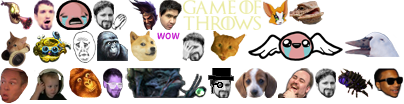
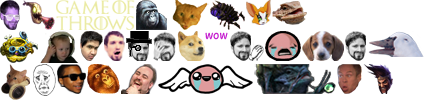
emote was too big, resize it

diff --git a/static/chat/css/style.min.css b/static/chat/css/style.min.css
@@ -1,1 +1,1 @@
-body#chat-embedded{margin:0;padding:0;height:100%;overflow:hidden;min-height:250px;min-width:300px}.chat-output .mCSB_container{margin-right:20px}.chat-output,.chat-lines{-webkit-backface-visibility:hidden;-webkit-perspective:1000;padding:0;margin:0}.chat-lines msg.emote{font-style:italic}.chat-frame{position:relative;width:100%;height:100%}.chat-lines>div{clear:both;word-wrap:break-word;padding:3px 0 3px 5px}.chat-lines>div .continue{user-select:none;color:#444}.chat-lines>div i.continue{user-select:none;color:#222}.chat-lines>div.failed span{text-decoration:line-through;opacity:.5}.chat-lines a.user{font-weight:bold;cursor:pointer}.chat-lines hr{margin:8px 0}.chat-input,.chat-input-wrap,.chat-tools-wrap{height:30px}.chat-input{background:#2e2e2e;background:-moz-linear-gradient(top,rgba(46,46,46,1) 0,rgba(28,28,28,1) 100%);background:-webkit-gradient(linear,left top,left bottom,color-stop(0%,rgba(46,46,46,1)),color-stop(100%,rgba(28,28,28,1)));background:-webkit-linear-gradient(top,rgba(46,46,46,1) 0,rgba(28,28,28,1) 100%);background:-o-linear-gradient(top,rgba(46,46,46,1) 0,rgba(28,28,28,1) 100%);background:-ms-linear-gradient(top,rgba(46,46,46,1) 0,rgba(28,28,28,1) 100%);background:linear-gradient(to bottom,rgba(46,46,46,1) 0,rgba(28,28,28,1) 100%);width:100%;position:absolute;bottom:0;margin:5px 0 0 0}.chat-tools-wrap{position:absolute;right:0;top:0;margin:0;user-select:none;-moz-user-select:none;-webkit-user-select:none}.chat-input-wrap{margin:0;margin-right:90px;border-radius:0}.chat-input-control{padding:3px 0 0 5px;height:25px;margin:1px;border-radius:3px}.chat-input-control .input{background:0;resize:none;margin:0;padding:0;width:100%;border:0;border-radius:0;box-shadow:none;box-sizing:border-box}.chat-input-control .input:focus{box-shadow:none}.chat-tools-wrap>div{height:30px;overflow:hidden}.chat-tools-wrap .iconbtn{cursor:pointer;width:30px;height:30px;line-height:30px;float:left;display:block;text-align:center}.chat-tools-wrap .iconbtn:hover{background:rgba(255,255,255,0.15)}.chat-tools-wrap .iconbtn:hover i{opacity:.9}.chat-tools-wrap .iconbtn.active{background:rgba(255,255,255,0.25)}.chat-tools-wrap .iconbtn.active i{opacity:1}.chat .chat-lines i[class^="icon-"]{width:16px;line-height:16px;height:16px;margin:0;opacity:1}.chat-input-control input,.chat-lines{font-family:Helvetica,"Trebuchet MS",Verdana,sans-serif;font-size:13px;line-height:20px}.chat-lines>div .p-whisper{font-weight:bold}.chat-lines>div time{font-size:11px}.chat-lines a.externallink{color:#02c2ff}.chat-lines a.externallink:visited{color:#08c}.chat-lines a.externallink:hover,.chat-lines a.externallink:focus{color:#004d74}.chat-lines a.nsfw-link{border-bottom:1px dashed red}.chat .chat-lines time,.chat .user-msg i{display:none!important}.chat.chat-time .chat-lines time,.chat.chat-icons .user-msg i,.chat-lines i.icon-subscriber,.chat-lines i.icon-subscribert2,.chat-lines i.icon-administrator{display:inline-block!important}.chat-theme-dark{background:#080808;border-radius:4px;box-shadow:inset 0 0 5px 5px rgba(0,0,0,0.25)}.chat-theme-dark .chat-input-wrap{border:0}.chat-theme-dark .chat-lines chat{color:#ddd}.chat-theme-dark .chat-lines>div time{color:#414141}.chat-theme-dark .chat-lines>div .p-whisper{color:#900}.chat-theme-dark .chat-lines>div.highlight time,.chat-lines>div.highlight .continue{color:#838383}.chat-theme-dark .chat-lines>div.command-msg,.chat-theme-dark .chat-lines>div.error-msg,.chat-theme-dark .chat-lines>div.status-msg,.chat-theme-dark .chat-lines>div.ui-msg,.chat-theme-dark .chat-lines>div.own-msg,.chat-theme-dark .chat-lines>div.highlight{color:#dedede}.chat-theme-dark .chat-lines>div.own-msg{background:linear-gradient(to right,rgba(255,255,255,0.05) 0,rgba(255,255,255,0.05) 90%,rgba(255,255,255,0) 100%)}.chat-theme-dark .chat-lines>div.highlight{background:linear-gradient(to right,rgba(0,150,255,0.5) 0,rgba(0,150,255,0) 100%)}.chat-theme-dark .chat-lines>div.command-msg,.chat-theme-dark .chat-lines>div.own-msg,.chat-theme-dark .chat-lines>div.highlight msg{text-shadow:1px 1px 0 rgba(0,0,0,0.5)}.chat-theme-dark .chat-input-control{background:#090909;border:0}.chat-theme-dark .chat-input-control input{color:#9e9e9e;background:#090909;text-shadow:none}.chat-theme-dark input:input-placeholder{color:#222}.chat-theme-dark input:-moz-placeholder{color:#222}.chat-theme-dark input:-ms-input-placeholder{color:#222}.chat-theme-dark input::-webkit-input-placeholder{color:#222}.user-tools{width:100%;top:-5px;left:0}.user-tools>div{border-radius:4px;margin:5px 20px 5px 5px}.user-tools-wrap{margin-left:-5px}.user-tools-wrap>a{margin:0 5px}.chat-menu,.user-tools{opacity:0;transition:top .25s ease-out,bottom .25s ease-out,opacity .1s ease-in;position:absolute;font-size:12px}.chat-menu.active,.user-tools.active{opacity:1}.chat-menu{right:20px;bottom:35px;width:240px}.chat-menu.active{bottom:40px}.user-tools.active{top:0}.chat-menu h5,.user-tools h5{text-shadow:-1px -1px 0 rgba(0,0,0,0.25);user-select:none;-moz-user-select:none;-webkit-user-select:none;background:#4f4f4f;background:linear-gradient(to bottom,rgba(79,79,79,1) 0,rgba(46,46,46,1) 100%);border-bottom:1px solid #121212;margin:0;line-height:20px;display:block;padding:5px 10px;border-radius:4px 4px 0 0}.chat-menu .toolbar{width:100%;position:absolute;top:-31px;left:0}.chat-menu h5 .close,.user-tools h5 .close{margin-top:3px}.chat-menu li,.chat-menu label{font-size:12px}.chat-menu label:hover{color:white}.chat-menu .list-wrap,.chat-menu .list-wrap .scrollable{max-height:330px}.chat-menu .list-wrap,.user-tools>div{box-shadow:0 2px 6px rgba(0,0,0,0.9);border-radius:0 0 4px 4px;background:rgba(25,25,25,0.9);padding:0}.chat-menu .list-wrap{margin-top:auto}.chat-menu .list-wrap .scrollable{overflow:hidden}.chat-menu ul,.user-tools .tools{padding:0 10px;margin:10px 0}.chat-menu ul>li:first-child h5{margin-top:0}.chat-menu ul li{text-overflow:ellipsis;overflow:hidden}#chat-user-list h6:first-child{margin-top:10px}#chat-user-list h6{font-weight:bold;margin:0 0 5px 5px}#chat-user-list hr{margin:5px 0}#chat-user-list ul{margin:0}#chat-user-list .user{cursor:pointer}.chat.focus-user .chat-lines>div.user-msg{opacity:.3}.chat.focus-user .chat-lines>div.user-msg.focused,.chat.focus-user .chat-lines>div.user-msg.highlight{opacity:1}.user-tools a#unignoreuser,.user-tools.user-ignored a#ignoreuser{display:none}.user-tools.user-ignored a#unignoreuser{display:inline-block}.chat-login-msg{padding:0 0 0 5px;line-height:25px;color:rgba(255,255,255,0.5);text-shadow:-1px -1px 0 rgba(0,0,0,0.25)}.chat-login-msg:hover{color:rgba(255,255,255,1);text-shadow:0 0 3px rgba(255,255,255,0.25)}.chat-emote{display:inline-block;position:relative;top:10px;margin:0 2px}.chat-emote.chat-emote-Dravewin{width:30px;height:30px;margin-top:-30px;background:url('../img/emoticons.png') no-repeat -128px 0}.chat-emote.chat-emote-INFESTINY{width:35px;height:30px;margin-top:-30px;background:url('../img/emoticons.png') no-repeat -338px -68px}.chat-emote.chat-emote-FIDGETLOL{width:25px;height:25px;margin-top:-25px;background:url('../img/emoticons.png') no-repeat -263px 0}.chat-emote.chat-emote-Hhhehhehe{width:35px;height:25px;margin-top:-25px;background:url('../img/emoticons.png') no-repeat -289px 0}.chat-emote.chat-emote-GameOfThrows{width:79px;height:30px;margin-top:-30px;background:url('../img/emoticons.png') no-repeat -183px 0}.chat-emote.chat-emote-WORTH{width:21px;height:30px;margin-top:-30px;background:url('../img/emoticons.png') no-repeat -103px -68px}.chat-emote.chat-emote-FeedNathan{width:39px;height:32px;margin-top:-32px;background:url('../img/emoticons.png') no-repeat -29px -68px}.chat-emote.chat-emote-Abathur{width:82px;height:30px;margin-top:-30px;background:url('../img/emoticons.png') no-repeat -125px -68px}.chat-emote.chat-emote-LUL{width:36px;height:30px;margin-top:-30px;background:url('../img/emoticons.png') no-repeat -278px -68px}.chat-emote.chat-emote-Heimerdonger{width:39px;height:32px;margin-top:-32px;background:url('../img/emoticons.png') no-repeat -33px -31px}.chat-emote.chat-emote-ASLAN{width:41px;height:30px;margin-top:-30px;background:url('../img/emoticons.png') no-repeat -206px -31px}.chat-emote.chat-emote-DJAslan{width:32px;height:36px;margin-top:-36px;background:url('../img/emoticons.png') no-repeat 0 -31px}.chat-emote.chat-emote-SoSad{width:23px;height:32px;margin-top:-32px;background:url('../img/emoticons.png') no-repeat -73px -31px}.chat-emote.chat-emote-DURRSTINY{width:21px;height:30px;margin-top:-30px;background:url('../img/emoticons.png') no-repeat -34px 0}.chat-emote.chat-emote-SURPRISE{width:33px;height:30px;margin-top:-30px;background:url('../img/emoticons.png') no-repeat 0 0}.chat-emote.chat-emote-NoTears{width:31px;height:30px;margin-top:-30px;background:url('../img/emoticons.png') no-repeat -97px -31px}.chat-emote.chat-emote-OverRustle{width:33px;height:30px;margin-top:-30px;background:url('../img/emoticons.png') no-repeat -69px -68px;animation:rustle 100ms 7;-webkit-animation:rustle 100ms 7}.chat-emote.chat-emote-OverRustle:hover{animation:rustle 100ms infinite;-webkit-animation:rustle 100ms infinite}@keyframes rustle{from{left:0}to{left:2px}}@-webkit-keyframes rustle{from{left:0}to{left:2px}}.chat-emote.chat-emote-DuckerZ{width:56px;height:26px;margin-top:-26px;background:url('../img/emoticons.png') no-repeat -344px -31px}.chat-emote.chat-emote-Kappa{width:22px;height:30px;margin-top:-30px;background:url('../img/emoticons.png') no-repeat -315px -68px}.chat-emote.chat-emote-Klappa{width:34px;height:30px;margin-top:-30px;background:url('../img/emoticons.png') no-repeat -93px 0}.chat-emote.chat-emote-DappaKappa{width:26px;height:30px;margin-top:-30px;background:url('../img/emoticons.png') no-repeat -208px -68px}.chat-emote.chat-emote-BibleThump{width:36px;height:30px;margin-top:-30px;background:url('../img/emoticons.png') no-repeat -56px 0}.chat-emote.chat-emote-AngelThump{width:95px;height:30px;margin-top:-30px;background:url('../img/emoticons.png') no-repeat -248px -31px}.chat-emote.chat-emote-FrankerZ{width:42px;height:30px;margin-top:-30px;background:url('../img/emoticons.png') no-repeat -235px -68px}.chat-emote.chat-emote-BasedGod{width:29px;height:30px;margin-top:-30px;background:url('../img/emoticons.png') no-repeat -374px -68px}.chat-emote.chat-emote-TooSpicy{width:23px;height:30px;margin-top:-30px;background:url('../img/emoticons.png') no-repeat -159px 0}.chat-emote.chat-emote-OhKrappa{width:23px;height:30px;margin-top:-30px;background:url('../img/emoticons.png') no-repeat -182px -31px}.chat-emote.chat-emote-SoDoge{width:52px;height:30px;margin-top:-30px;background:url('../img/emoticons.png') no-repeat -129px -31px}.chat-emote.chat-emote-WhoahDude{width:28px;height:35px;margin-top:-35px;background:url('../img/emoticons.png') no-repeat 0 -68px}.chat .chat-lines i[class^="icon-"]{background-position:bottom left;background-repeat:no-repeat}.chat .chat-lines i[class^="icon-"]:hover{background-position:top left}i.icon-subscriber,i.icon-subscribert2{-webkit-transform:rotate(0deg);-webkit-transition:rotate .2s ease-in-out;-moz-transition:rotate .2s ease-in-out;-o-transition:rotate .2s ease-in-out;transition:rotate .2s ease-in-out}i.icon-subscriber:hover,i.icon-subscribert2:hover{-moz-animation:spin 3s infinite linear;-webkit-animation:spin 3s infinite linear}i.icon-subscriber{background-image:url("../img/bobross.png")}i.icon-subscribert2{background-image:url("../img/bobross2.png")}i.icon-vip{background-image:url("../img/leaf.png")}i.icon-moderator{background-image:url("../img/weather-lightning.png")}i.icon-administrator{background-image:url("../img/microphone.png")}i.icon-bot{background-image:url("../img/robot.png")}i.icon-notable{background-image:url("../img/balloon-white-left.png")}i.icon-error{background-image:url("../img/exclamation-red.png")}i.icon-status{background-image:url("../img/information.png")}i.icon-info{background-image:url("../img/question-white.png")}i.icon-command{background-image:url("../img/exclamation-diamond.png")}.chat-frame a.user{color:#a7a7a7}.chat-frame a.user:hover{color:#fafafa}.chat-frame a.subscriber{color:#488ce7}.chat-frame a.subscriber:hover{color:#6aa7f9}.chat-frame a.moderator{color:#429a2d}.chat-frame a.moderator:hover{color:#75e85a}.chat-frame a.vip{color:#cf31e2}.chat-frame a.vip:hover{color:#e564f4}.chat-frame a.admin{color:#b91010}.chat-frame a.admin:hover{color:#f00}.chat-frame a.bot{color:#4ba235}.chat-frame a.bot:hover{color:#7adb62}
+body#chat-embedded{margin:0;padding:0;height:100%;overflow:hidden;min-height:250px;min-width:300px}.chat-output .mCSB_container{margin-right:20px}.chat-output,.chat-lines{-webkit-backface-visibility:hidden;-webkit-perspective:1000;padding:0;margin:0}.chat-lines msg.emote{font-style:italic}.chat-frame{position:relative;width:100%;height:100%}.chat-lines>div{clear:both;word-wrap:break-word;padding:3px 0 3px 5px}.chat-lines>div .continue{user-select:none;color:#444}.chat-lines>div i.continue{user-select:none;color:#222}.chat-lines>div.failed span{text-decoration:line-through;opacity:.5}.chat-lines a.user{font-weight:bold;cursor:pointer}.chat-lines hr{margin:8px 0}.chat-input,.chat-input-wrap,.chat-tools-wrap{height:30px}.chat-input{background:#2e2e2e;background:-moz-linear-gradient(top,rgba(46,46,46,1) 0,rgba(28,28,28,1) 100%);background:-webkit-gradient(linear,left top,left bottom,color-stop(0%,rgba(46,46,46,1)),color-stop(100%,rgba(28,28,28,1)));background:-webkit-linear-gradient(top,rgba(46,46,46,1) 0,rgba(28,28,28,1) 100%);background:-o-linear-gradient(top,rgba(46,46,46,1) 0,rgba(28,28,28,1) 100%);background:-ms-linear-gradient(top,rgba(46,46,46,1) 0,rgba(28,28,28,1) 100%);background:linear-gradient(to bottom,rgba(46,46,46,1) 0,rgba(28,28,28,1) 100%);width:100%;position:absolute;bottom:0;margin:5px 0 0 0}.chat-tools-wrap{position:absolute;right:0;top:0;margin:0;user-select:none;-moz-user-select:none;-webkit-user-select:none}.chat-input-wrap{margin:0;margin-right:90px;border-radius:0}.chat-input-control{padding:3px 0 0 5px;height:25px;margin:1px;border-radius:3px}.chat-input-control .input{background:0;resize:none;margin:0;padding:0;width:100%;border:0;border-radius:0;box-shadow:none;box-sizing:border-box}.chat-input-control .input:focus{box-shadow:none}.chat-tools-wrap>div{height:30px;overflow:hidden}.chat-tools-wrap .iconbtn{cursor:pointer;width:30px;height:30px;line-height:30px;float:left;display:block;text-align:center}.chat-tools-wrap .iconbtn:hover{background:rgba(255,255,255,0.15)}.chat-tools-wrap .iconbtn:hover i{opacity:.9}.chat-tools-wrap .iconbtn.active{background:rgba(255,255,255,0.25)}.chat-tools-wrap .iconbtn.active i{opacity:1}.chat .chat-lines i[class^="icon-"]{width:16px;line-height:16px;height:16px;margin:0;opacity:1}.chat-input-control input,.chat-lines{font-family:Helvetica,"Trebuchet MS",Verdana,sans-serif;font-size:13px;line-height:20px}.chat-lines>div .p-whisper{font-weight:bold}.chat-lines>div time{font-size:11px}.chat-lines a.externallink{color:#02c2ff}.chat-lines a.externallink:visited{color:#08c}.chat-lines a.externallink:hover,.chat-lines a.externallink:focus{color:#004d74}.chat-lines a.nsfw-link{border-bottom:1px dashed red}.chat .chat-lines time,.chat .user-msg i{display:none!important}.chat.chat-time .chat-lines time,.chat.chat-icons .user-msg i,.chat-lines i.icon-subscriber,.chat-lines i.icon-subscribert2,.chat-lines i.icon-administrator{display:inline-block!important}.chat-theme-dark{background:#080808;border-radius:4px;box-shadow:inset 0 0 5px 5px rgba(0,0,0,0.25)}.chat-theme-dark .chat-input-wrap{border:0}.chat-theme-dark .chat-lines chat{color:#ddd}.chat-theme-dark .chat-lines>div time{color:#414141}.chat-theme-dark .chat-lines>div .p-whisper{color:#900}.chat-theme-dark .chat-lines>div.highlight time,.chat-lines>div.highlight .continue{color:#838383}.chat-theme-dark .chat-lines>div.command-msg,.chat-theme-dark .chat-lines>div.error-msg,.chat-theme-dark .chat-lines>div.status-msg,.chat-theme-dark .chat-lines>div.ui-msg,.chat-theme-dark .chat-lines>div.own-msg,.chat-theme-dark .chat-lines>div.highlight{color:#dedede}.chat-theme-dark .chat-lines>div.own-msg{background:linear-gradient(to right,rgba(255,255,255,0.05) 0,rgba(255,255,255,0.05) 90%,rgba(255,255,255,0) 100%)}.chat-theme-dark .chat-lines>div.highlight{background:linear-gradient(to right,rgba(0,150,255,0.5) 0,rgba(0,150,255,0) 100%)}.chat-theme-dark .chat-lines>div.command-msg,.chat-theme-dark .chat-lines>div.own-msg,.chat-theme-dark .chat-lines>div.highlight msg{text-shadow:1px 1px 0 rgba(0,0,0,0.5)}.chat-theme-dark .chat-input-control{background:#090909;border:0}.chat-theme-dark .chat-input-control input{color:#9e9e9e;background:#090909;text-shadow:none}.chat-theme-dark input:input-placeholder{color:#222}.chat-theme-dark input:-moz-placeholder{color:#222}.chat-theme-dark input:-ms-input-placeholder{color:#222}.chat-theme-dark input::-webkit-input-placeholder{color:#222}.user-tools{width:100%;top:-5px;left:0}.user-tools>div{border-radius:4px;margin:5px 20px 5px 5px}.user-tools-wrap{margin-left:-5px}.user-tools-wrap>a{margin:0 5px}.chat-menu,.user-tools{opacity:0;transition:top .25s ease-out,bottom .25s ease-out,opacity .1s ease-in;position:absolute;font-size:12px}.chat-menu.active,.user-tools.active{opacity:1}.chat-menu{right:20px;bottom:35px;width:240px}.chat-menu.active{bottom:40px}.user-tools.active{top:0}.chat-menu h5,.user-tools h5{text-shadow:-1px -1px 0 rgba(0,0,0,0.25);user-select:none;-moz-user-select:none;-webkit-user-select:none;background:#4f4f4f;background:linear-gradient(to bottom,rgba(79,79,79,1) 0,rgba(46,46,46,1) 100%);border-bottom:1px solid #121212;margin:0;line-height:20px;display:block;padding:5px 10px;border-radius:4px 4px 0 0}.chat-menu .toolbar{width:100%;position:absolute;top:-31px;left:0}.chat-menu h5 .close,.user-tools h5 .close{margin-top:3px}.chat-menu li,.chat-menu label{font-size:12px}.chat-menu label:hover{color:white}.chat-menu .list-wrap,.chat-menu .list-wrap .scrollable{max-height:330px}.chat-menu .list-wrap,.user-tools>div{box-shadow:0 2px 6px rgba(0,0,0,0.9);border-radius:0 0 4px 4px;background:rgba(25,25,25,0.9);padding:0}.chat-menu .list-wrap{margin-top:auto}.chat-menu .list-wrap .scrollable{overflow:hidden}.chat-menu ul,.user-tools .tools{padding:0 10px;margin:10px 0}.chat-menu ul>li:first-child h5{margin-top:0}.chat-menu ul li{text-overflow:ellipsis;overflow:hidden}#chat-user-list h6:first-child{margin-top:10px}#chat-user-list h6{font-weight:bold;margin:0 0 5px 5px}#chat-user-list hr{margin:5px 0}#chat-user-list ul{margin:0}#chat-user-list .user{cursor:pointer}.chat.focus-user .chat-lines>div.user-msg{opacity:.3}.chat.focus-user .chat-lines>div.user-msg.focused,.chat.focus-user .chat-lines>div.user-msg.highlight{opacity:1}.user-tools a#unignoreuser,.user-tools.user-ignored a#ignoreuser{display:none}.user-tools.user-ignored a#unignoreuser{display:inline-block}.chat-login-msg{padding:0 0 0 5px;line-height:25px;color:rgba(255,255,255,0.5);text-shadow:-1px -1px 0 rgba(0,0,0,0.25)}.chat-login-msg:hover{color:rgba(255,255,255,1);text-shadow:0 0 3px rgba(255,255,255,0.25)}.chat-emote{display:inline-block;position:relative;top:10px;margin:0 2px}.chat-emote.chat-emote-Dravewin{width:30px;height:30px;margin-top:-30px;background:url('../img/emoticons.png') no-repeat -363px -64px}.chat-emote.chat-emote-INFESTINY{width:35px;height:30px;margin-top:-30px;background:url('../img/emoticons.png') no-repeat -210px 0}.chat-emote.chat-emote-FIDGETLOL{width:25px;height:25px;margin-top:-25px;background:url('../img/emoticons.png') no-repeat -246px 0}.chat-emote.chat-emote-Hhhehhehe{width:35px;height:25px;margin-top:-25px;background:url('../img/emoticons.png') no-repeat -272px 0}.chat-emote.chat-emote-GameOfThrows{width:79px;height:30px;margin-top:-30px;background:url('../img/emoticons.png') no-repeat -56px 0}.chat-emote.chat-emote-WORTH{width:21px;height:30px;margin-top:-30px;background:url('../img/emoticons.png') no-repeat 0 0}.chat-emote.chat-emote-FeedNathan{width:39px;height:32px;margin-top:-32px;background:url('../img/emoticons.png') no-repeat -40px -31px}.chat-emote.chat-emote-Abathur{width:82px;height:30px;margin-top:-30px;background:url('../img/emoticons.png') no-repeat -254px -64px}.chat-emote.chat-emote-LUL{width:36px;height:30px;margin-top:-30px;background:url('../img/emoticons.png') no-repeat -121px -64px}.chat-emote.chat-emote-Heimerdonger{width:39px;height:32px;margin-top:-32px;background:url('../img/emoticons.png') no-repeat 0 -31px}.chat-emote.chat-emote-ASLAN{width:41px;height:30px;margin-top:-30px;background:url('../img/emoticons.png') no-repeat -168px 0}.chat-emote.chat-emote-DJAslan{width:32px;height:36px;margin-top:-36px;background:url('../img/emoticons.png') no-repeat 0 -64px}.chat-emote.chat-emote-SoSad{width:23px;height:32px;margin-top:-32px;background:url('../img/emoticons.png') no-repeat -33px -64px}.chat-emote.chat-emote-DURRSTINY{width:21px;height:30px;margin-top:-30px;background:url('../img/emoticons.png') no-repeat -104px -31px}.chat-emote.chat-emote-SURPRISE{width:33px;height:30px;margin-top:-30px;background:url('../img/emoticons.png') no-repeat -22px 0}.chat-emote.chat-emote-NoTears{width:31px;height:30px;margin-top:-30px;background:url('../img/emoticons.png') no-repeat -136px 0}.chat-emote.chat-emote-OverRustle{width:33px;height:30px;margin-top:-30px;background:url('../img/emoticons.png') no-repeat -87px -64px;animation:rustle 100ms 7;-webkit-animation:rustle 100ms 7}.chat-emote.chat-emote-OverRustle:hover{animation:rustle 100ms infinite;-webkit-animation:rustle 100ms infinite}@keyframes rustle{from{left:0}to{left:2px}}@-webkit-keyframes rustle{from{left:0}to{left:2px}}.chat-emote.chat-emote-DuckerZ{width:56px;height:26px;margin-top:-26px;background:url('../img/emoticons.png') no-repeat -368px -31px}.chat-emote.chat-emote-Kappa{width:22px;height:30px;margin-top:-30px;background:url('../img/emoticons.png') no-repeat -345px -31px}.chat-emote.chat-emote-Klappa{width:34px;height:30px;margin-top:-30px;background:url('../img/emoticons.png') no-repeat -230px -31px}.chat-emote.chat-emote-DappaKappa{width:26px;height:30px;margin-top:-30px;background:url('../img/emoticons.png') no-repeat -126px -31px}.chat-emote.chat-emote-BibleThump{width:36px;height:30px;margin-top:-30px;background:url('../img/emoticons.png') no-repeat -265px -31px}.chat-emote.chat-emote-AngelThump{width:95px;height:30px;margin-top:-30px;background:url('../img/emoticons.png') no-repeat -158px -64px}.chat-emote.chat-emote-FrankerZ{width:42px;height:30px;margin-top:-30px;background:url('../img/emoticons.png') no-repeat -302px -31px}.chat-emote.chat-emote-BasedGod{width:29px;height:30px;margin-top:-30px;background:url('../img/emoticons.png') no-repeat -57px -64px}.chat-emote.chat-emote-TooSpicy{width:23px;height:30px;margin-top:-30px;background:url('../img/emoticons.png') no-repeat -80px -31px}.chat-emote.chat-emote-OhKrappa{width:23px;height:30px;margin-top:-30px;background:url('../img/emoticons.png') no-repeat -153px -31px}.chat-emote.chat-emote-SoDoge{width:52px;height:30px;margin-top:-30px;background:url('../img/emoticons.png') no-repeat -177px -31px}.chat-emote.chat-emote-WhoahDude{width:25px;height:30px;margin-top:-30px;background:url('../img/emoticons.png') no-repeat -337px -64px}.chat .chat-lines i[class^="icon-"]{background-position:bottom left;background-repeat:no-repeat}.chat .chat-lines i[class^="icon-"]:hover{background-position:top left}i.icon-subscriber,i.icon-subscribert2{-webkit-transform:rotate(0deg);-webkit-transition:rotate .2s ease-in-out;-moz-transition:rotate .2s ease-in-out;-o-transition:rotate .2s ease-in-out;transition:rotate .2s ease-in-out}i.icon-subscriber:hover,i.icon-subscribert2:hover{-moz-animation:spin 3s infinite linear;-webkit-animation:spin 3s infinite linear}i.icon-subscriber{background-image:url("../img/bobross.png")}i.icon-subscribert2{background-image:url("../img/bobross2.png")}i.icon-vip{background-image:url("../img/leaf.png")}i.icon-moderator{background-image:url("../img/weather-lightning.png")}i.icon-administrator{background-image:url("../img/microphone.png")}i.icon-bot{background-image:url("../img/robot.png")}i.icon-notable{background-image:url("../img/balloon-white-left.png")}i.icon-error{background-image:url("../img/exclamation-red.png")}i.icon-status{background-image:url("../img/information.png")}i.icon-info{background-image:url("../img/question-white.png")}i.icon-command{background-image:url("../img/exclamation-diamond.png")}.chat-frame a.user{color:#a7a7a7}.chat-frame a.user:hover{color:#fafafa}.chat-frame a.subscriber{color:#488ce7}.chat-frame a.subscriber:hover{color:#6aa7f9}.chat-frame a.moderator{color:#429a2d}.chat-frame a.moderator:hover{color:#75e85a}.chat-frame a.vip{color:#cf31e2}.chat-frame a.vip:hover{color:#e564f4}.chat-frame a.admin{color:#b91010}.chat-frame a.admin:hover{color:#f00}.chat-frame a.bot{color:#4ba235}.chat-frame a.bot:hover{color:#7adb62}

diff --git a/static/chat/css/emoticons.css b/static/chat/css/emoticons.css
@@ -15,119 +15,119 @@
 	width: 30px;
 	height: 30px;
 	margin-top: -30px;
-	background: url('../img/emoticons.png') no-repeat -128px 0;
+	background: url('../img/emoticons.png') no-repeat -363px -64px;
 }
 
 .chat-emote.chat-emote-INFESTINY {
 	width: 35px;
 	height: 30px;
 	margin-top: -30px;
-	background: url('../img/emoticons.png') no-repeat -338px -68px;
+	background: url('../img/emoticons.png') no-repeat -210px 0;
 }
 
 .chat-emote.chat-emote-FIDGETLOL {
 	width: 25px;
 	height: 25px;
 	margin-top: -25px;
-	background: url('../img/emoticons.png') no-repeat -263px 0;
+	background: url('../img/emoticons.png') no-repeat -246px 0;
 }
 
 .chat-emote.chat-emote-Hhhehhehe {
 	width: 35px;
 	height: 25px;
 	margin-top: -25px;
-	background: url('../img/emoticons.png') no-repeat -289px 0;
+	background: url('../img/emoticons.png') no-repeat -272px 0;
 }
 
 .chat-emote.chat-emote-GameOfThrows {
 	width: 79px;
 	height: 30px;
 	margin-top: -30px;
-	background: url('../img/emoticons.png') no-repeat -183px 0;
+	background: url('../img/emoticons.png') no-repeat -56px 0;
 }
 
 .chat-emote.chat-emote-WORTH {
 	width: 21px;
 	height: 30px;
 	margin-top: -30px;
-	background: url('../img/emoticons.png') no-repeat -103px -68px;
+	background: url('../img/emoticons.png') no-repeat 0 0;
 }
 
 .chat-emote.chat-emote-FeedNathan {
 	width: 39px;
 	height: 32px;
 	margin-top: -32px;
-	background: url('../img/emoticons.png') no-repeat -29px -68px;
+	background: url('../img/emoticons.png') no-repeat -40px -31px;
 }
 
 .chat-emote.chat-emote-Abathur {
 	width: 82px;
 	height: 30px;
 	margin-top: -30px;
-	background: url('../img/emoticons.png') no-repeat -125px -68px;
+	background: url('../img/emoticons.png') no-repeat -254px -64px;
 }
 
 .chat-emote.chat-emote-LUL {
 	width: 36px;
 	height: 30px;
 	margin-top: -30px;
-	background: url('../img/emoticons.png') no-repeat -278px -68px;
+	background: url('../img/emoticons.png') no-repeat -121px -64px;
 }
 
 .chat-emote.chat-emote-Heimerdonger {
 	width: 39px;
 	height: 32px;
 	margin-top: -32px;
-	background: url('../img/emoticons.png') no-repeat -33px -31px;
+	background: url('../img/emoticons.png') no-repeat 0 -31px;
 }
 
 .chat-emote.chat-emote-ASLAN {
 	width: 41px;
 	height: 30px;
 	margin-top: -30px;
-	background: url('../img/emoticons.png') no-repeat -206px -31px;
+	background: url('../img/emoticons.png') no-repeat -168px 0;
 }
 
 .chat-emote.chat-emote-DJAslan {
 	width: 32px;
 	height: 36px;
 	margin-top: -36px;
-	background: url('../img/emoticons.png') no-repeat 0 -31px;
+	background: url('../img/emoticons.png') no-repeat 0 -64px;
 }
 
 .chat-emote.chat-emote-SoSad {
 	width: 23px;
 	height: 32px;
 	margin-top: -32px;
-	background: url('../img/emoticons.png') no-repeat -73px -31px;
+	background: url('../img/emoticons.png') no-repeat -33px -64px;
 }
 
 .chat-emote.chat-emote-DURRSTINY {
 	width: 21px;
 	height: 30px;
 	margin-top: -30px;
-	background: url('../img/emoticons.png') no-repeat -34px 0;
+	background: url('../img/emoticons.png') no-repeat -104px -31px;
 }
 
 .chat-emote.chat-emote-SURPRISE {
 	width: 33px;
 	height: 30px;
 	margin-top: -30px;
-	background: url('../img/emoticons.png') no-repeat 0 0;
+	background: url('../img/emoticons.png') no-repeat -22px 0;
 }
 
 .chat-emote.chat-emote-NoTears {
 	width: 31px;
 	height: 30px;
 	margin-top: -30px;
-	background: url('../img/emoticons.png') no-repeat -97px -31px;
+	background: url('../img/emoticons.png') no-repeat -136px 0;
 }
 
 .chat-emote.chat-emote-OverRustle {
 	width: 33px;
 	height: 30px;
 	margin-top: -30px;
-	background: url('../img/emoticons.png') no-repeat -69px -68px;
+	background: url('../img/emoticons.png') no-repeat -87px -64px;
 	animation: rustle 100ms 7;
 	-webkit-animation: rustle 100ms 7;
 }
@@ -156,82 +156,82 @@
 	width: 56px;
 	height: 26px;
 	margin-top: -26px;
-	background: url('../img/emoticons.png') no-repeat -344px -31px;
+	background: url('../img/emoticons.png') no-repeat -368px -31px;
 }
 
 .chat-emote.chat-emote-Kappa {
 	width: 22px;
 	height: 30px;
 	margin-top: -30px;
-	background: url('../img/emoticons.png') no-repeat -315px -68px;
+	background: url('../img/emoticons.png') no-repeat -345px -31px;
 }
 
 .chat-emote.chat-emote-Klappa {
 	width: 34px;
 	height: 30px;
 	margin-top: -30px;
-	background: url('../img/emoticons.png') no-repeat -93px 0;
+	background: url('../img/emoticons.png') no-repeat -230px -31px;
 }
 
 .chat-emote.chat-emote-DappaKappa {
 	width: 26px;
 	height: 30px;
 	margin-top: -30px;
-	background: url('../img/emoticons.png') no-repeat -208px -68px;
+	background: url('../img/emoticons.png') no-repeat -126px -31px;
 }
 
 .chat-emote.chat-emote-BibleThump {
 	width: 36px;
 	height: 30px;
 	margin-top: -30px;
-	background: url('../img/emoticons.png') no-repeat -56px 0;
+	background: url('../img/emoticons.png') no-repeat -265px -31px;
 }
 
 .chat-emote.chat-emote-AngelThump {
 	width: 95px;
 	height: 30px;
 	margin-top: -30px;
-	background: url('../img/emoticons.png') no-repeat -248px -31px;
+	background: url('../img/emoticons.png') no-repeat -158px -64px;
 }
 
 .chat-emote.chat-emote-FrankerZ {
 	width: 42px;
 	height: 30px;
 	margin-top: -30px;
-	background: url('../img/emoticons.png') no-repeat -235px -68px;
+	background: url('../img/emoticons.png') no-repeat -302px -31px;
 }
 
 .chat-emote.chat-emote-BasedGod {
 	width: 29px;
 	height: 30px;
 	margin-top: -30px;
-	background: url('../img/emoticons.png') no-repeat -374px -68px;
+	background: url('../img/emoticons.png') no-repeat -57px -64px;
 }
 
 .chat-emote.chat-emote-TooSpicy {
 	width: 23px;
 	height: 30px;
 	margin-top: -30px;
-	background: url('../img/emoticons.png') no-repeat -159px 0;
+	background: url('../img/emoticons.png') no-repeat -80px -31px;
 }
 
 .chat-emote.chat-emote-OhKrappa {
 	width: 23px;
 	height: 30px;
 	margin-top: -30px;
-	background: url('../img/emoticons.png') no-repeat -182px -31px;
+	background: url('../img/emoticons.png') no-repeat -153px -31px;
 }
 
 .chat-emote.chat-emote-SoDoge {
 	width: 52px;
 	height: 30px;
 	margin-top: -30px;
-	background: url('../img/emoticons.png') no-repeat -129px -31px;
+	background: url('../img/emoticons.png') no-repeat -177px -31px;
 }
 
 .chat-emote.chat-emote-WhoahDude {
-	width: 28px;
-	height: 35px;
-	margin-top: -35px;
-	background: url('../img/emoticons.png') no-repeat 0 -68px;
+	width: 25px;
+	height: 30px;
+	margin-top: -30px;
+	background: url('../img/emoticons.png') no-repeat -337px -64px;
 }
